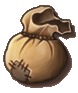
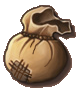
- Updated readme - Uploaded resources - Finalized beta version

diff --git a/src/providers/utility/utility.ts b/src/providers/utility/utility.ts
@@ -22,8 +22,8 @@ export class UtilityProvider {
   };
 
   public images: any = {
-    character: "/assets/images/character.png",
-    bag: "/assets/images/bag.png",
+    character: "assets/images/character_grayscale.png",
+    bag: "assets/images/bag_grayscale.png",
   };
   public options: Options = new Options();
   public characters: Character[] = new Array<Character>();
@@ -41,17 +41,17 @@ export class UtilityProvider {
 
   public init() {
     return new Promise((resolve, reject) => {
-      this.clearChache().then(() => {
-        let promises = [];
-        promises.push(this._loadOptions());
-        promises.push(this._loadItems());
-        promises.push(this._loadCharacters());
-        Promise.all(promises).then(() => {
-          this._translateService.use(this.options.language);
-          console.log("App inizializzata");
-          resolve();
-        });
+      // this.clearChache().then(() => {
+      let promises = [];
+      promises.push(this._loadOptions());
+      promises.push(this._loadItems());
+      promises.push(this._loadCharacters());
+      Promise.all(promises).then(() => {
+        this._translateService.use(this.options.language);
+        console.log("App inizializzata");
+        resolve();
       });
+      // });
     });
   }
   public clearChache() {
@@ -95,7 +95,7 @@ export class UtilityProvider {
 
   private _loadItems() {
     return new Promise((resolve, reject) => {
-      this._http.get("/assets/items.json").subscribe(value => {
+      this._http.get("assets/items.json").subscribe(value => {
         value.json().items.forEach(item => {
           this.items.push(JsonObject.parse(Item, item));
         });
@@ -127,9 +127,9 @@ export class UtilityProvider {
           });
         } else {
           console.log("Inizializzo i personaggi...");
-          this._addMockCharacters();
-          this._addMockBags();
-          this._addMockBagItems();
+          // this._addMockCharacters();
+          // this._addMockBags();
+          // this._addMockBagItems();
           this._saveCharacters();
           this.characters.forEach(char => {
             console.log(JSON.stringify(char));
@@ -162,41 +162,41 @@ export class UtilityProvider {
   }
 
   //DEBUG
-  private _addMockBagItems() {
-    let bagItem = new BagItem();
-    bagItem.itemId = 1;
-    this.characters[0].bags[0].items.push(bagItem);
-    bagItem = new BagItem();
-    bagItem.itemId = 2;
-    this.characters[0].bags[1].items.push(bagItem);
-    bagItem = new BagItem();
-    bagItem.itemId = 3;
-    bagItem.quantity = 3;
-    this.characters[0].bags[1].items.push(bagItem);
-    bagItem = new BagItem();
-    bagItem.itemId = 4;
-    bagItem.quantity = 2;
-    this.characters[0].bags[2].items.push(bagItem);
-  }
-  private _addMockBags() {
-    let bag = this.characters[0].addBag("Borsa da cintura");
-    bag.weight = 0.5;
-    bag = this.characters[0].addBag("Borsa magica");
-    bag.weight = 1;
-    bag.isFixedWeight = true;
-    bag.capacity = 10;
-  }
-  private _addMockCharacters() {
-    let char = this.addCharacter("Personaggio Nick");
-    char.race = "Nano"
-    char.class = "Guerriero";
-    char.strength = 18;
-    char = this.addCharacter("Personaggio Lucia");
-    char.race = "Umano"
-    char.class = "Stregone";
-    char.strength = 12;
-    char = this.addCharacter("Personaggio Margherita");
-    char.race = "Gnomo"
-    char.class = "Mago";
-  }
+  // private _addMockBagItems() {
+  //   let bagItem = new BagItem();
+  //   bagItem.itemId = 1;
+  //   this.characters[0].bags[0].items.push(bagItem);
+  //   bagItem = new BagItem();
+  //   bagItem.itemId = 2;
+  //   this.characters[0].bags[1].items.push(bagItem);
+  //   bagItem = new BagItem();
+  //   bagItem.itemId = 3;
+  //   bagItem.quantity = 3;
+  //   this.characters[0].bags[1].items.push(bagItem);
+  //   bagItem = new BagItem();
+  //   bagItem.itemId = 4;
+  //   bagItem.quantity = 2;
+  //   this.characters[0].bags[2].items.push(bagItem);
+  // }
+  // private _addMockBags() {
+  //   let bag = this.characters[0].addBag("Borsa da cintura");
+  //   bag.weight = 0.5;
+  //   bag = this.characters[0].addBag("Borsa magica");
+  //   bag.weight = 1;
+  //   bag.isFixedWeight = true;
+  //   bag.capacity = 10;
+  // }
+  // private _addMockCharacters() {
+  //   let char = this.addCharacter("Personaggio Nick");
+  //   char.race = "Nano"
+  //   char.class = "Guerriero";
+  //   char.strength = 18;
+  //   char = this.addCharacter("Personaggio Lucia");
+  //   char.race = "Umano"
+  //   char.class = "Stregone";
+  //   char.strength = 12;
+  //   char = this.addCharacter("Personaggio Margherita");
+  //   char.race = "Gnomo"
+  //   char.class = "Mago";
+  // }
 }

diff --git a/src/model/character.ts b/src/model/character.ts
@@ -1,6 +1,5 @@
 import { JsonObject, JsonArray } from "./json-model";
 import { Bag } from "./bag";
-import { BagItem } from "./bag-item";
 import { Item } from "./item";
 
 export class Character extends JsonObject {
@@ -15,14 +14,16 @@ export class Character extends JsonObject {
 
     constructor(name?: string) {
         super();
-        if (name)
+        if (name) {
             this.name = name;
-        this.race = "Razza";
-        this.class = "Classe";
-        this.strength = 10;
-        this.addBag("Equipaggiato");
-        let bag = this.addBag("Zaino");
-        bag.weight = 2.5;
+            this.race = "Razza";
+            this.class = "Classe";
+            this.strength = 10;
+            let bag = this.addBag("Equipaggiato");
+            bag.isEquipped = true;
+            bag = this.addBag("Zaino");
+            bag.weight = 2.5;
+        }
     }
 
     public get description() {
@@ -46,7 +47,7 @@ export class Character extends JsonObject {
     public get isHeavilyEncumbered() {
         return this.carriedWeight > this.heavilyEncumberedValue;
     }
-    public get isOverMaxCarry(){
+    public get isOverMaxCarry() {
         return this.carriedWeight > this.maxCarryValue;
     }
     public get encumberedValue() {
@@ -59,9 +60,6 @@ export class Character extends JsonObject {
         return parseFloat((this.strength * 15 * 0.453592).toFixed(2));
     }
 
-    public equipItem(bagItem: BagItem) {
-        this.equippedBag.items.push(bagItem);
-    }
     public getItemQuantity(item: Item) {
         let result = 0;
         this.bags.forEach(bag => {
@@ -76,7 +74,7 @@ export class Character extends JsonObject {
         return bag;
     }
     public removeBag(bag: Bag) {
-        this.bags.splice(this.bags.indexOf(bag));
+        this.bags.splice(this.bags.indexOf(bag), 1);
     }
 
     private _generateBagId() {

diff --git a/src/components/bag-item/bag-item.ts b/src/components/bag-item/bag-item.ts
@@ -43,9 +43,10 @@ export class BagItemComponent {
   public remove() {
     if (this.bagItem.quantity == 1) {
       this._utility.translate(["ButtareOggetto", "ButtareOggetto?", "Si", "No"]).subscribe(values => {
+        let message = values["ButtareOggetto?"].replace("{0}", this.bagItem.item.name);
         this._alertCtrl.create({
           title: values["ButtareOggetto"],
-          message: values["ButtareOggetto?"],
+          message: message,
           buttons: [
             {
               text: values["No"]
@@ -64,9 +65,11 @@ export class BagItemComponent {
       this.bagItem.quantity--;
   }
   public equip() {
-    this.bag.removeItem(this.bagItem);
-    this._utility.session.character.equipItem(this.bagItem);
-    this._utility.saveToStorage();
+    this._selectQuantity().then(quantity => {
+      this.bag.removeItem(this.bagItem, quantity);
+      this._utility.session.character.equippedBag.addItem(this.bagItem.item, quantity);
+      this._utility.saveToStorage();
+    });
   }
   public unequip() {
     this._selectQuantity().then(quantity => {
@@ -125,10 +128,10 @@ export class BagItemComponent {
       if (this._utility.session.character.bags.length == 2)
         resolve(this._utility.session.character.backpack);
       else {
-        this._utility.translate(["ScegliZaino", "QualeZaino?", "Conferma", "Annulla"]).subscribe(values => {
+        this._utility.translate(["SelezioneZaino", "InQualeZaino?", "Conferma", "Annulla"]).subscribe(values => {
           let alert = this._alertCtrl.create({
-            title: values["ScegliZaino"],
-            message: values["QualeZaino?"],
+            title: values["SelezioneZaino"],
+            message: values["InQualeZaino?"],
             buttons: [
               {
                 text: values["Annulla"],

diff --git a/src/pages/bag-details/bag-details.ts b/src/pages/bag-details/bag-details.ts
@@ -1,7 +1,6 @@
 import { Component } from '@angular/core';
 import { IonicPage, NavController, NavParams, AlertController } from 'ionic-angular';
 import { Bag } from "../../model/bag";
-import { JsonObject } from "../../model/json-model";
 import { UtilityProvider } from "../../providers/utility/utility";
 
 @IonicPage()
@@ -31,6 +30,10 @@ export class BagDetailsPage {
     }
   }
 
+  public get showDelete(){
+    return this._utility.session.character.bags.length > 2;
+  }
+
   public cancel() {
     this.navCtrl.pop();
   }
@@ -41,9 +44,10 @@ export class BagDetailsPage {
   }
   public delete() {
     this._utility.translate(["ButtareBorsa", "ButtareBorsa?", "Si", "No"]).subscribe(values => {
+      let message = values["ButtareBorsa?"].replace("{0}", this.bag.name);
       this._alertCtrl.create({
         title: values["ButtareBorsa"],
-        message: values["ButtareBorsa?"],
+        message: message,
         buttons: [
           {
             text: values["No"]

diff --git a/src/components/total-bar/total-bar.ts b/src/components/total-bar/total-bar.ts
@@ -23,6 +23,8 @@ export class TotalBarComponent {
       result = "warning";
     if (this._utility.session.character.isHeavilyEncumbered)
       result = "danger";
+    if (this._utility.session.character.isOverMaxCarry)
+      result = "alert";
     return result;
   }
   public get carriedWeightIconName() {
@@ -36,6 +38,9 @@ export class TotalBarComponent {
   }
   public get isHeavilyEncumbered() {
     return this._utility.session.character.isHeavilyEncumbered;
+  }
+  public get isOverMaxCarry() {
+    return this._utility.session.character.isOverMaxCarry;
   }
 
   public showInfo() {

diff --git a/src/components/total-bar/total-bar.html b/src/components/total-bar/total-bar.html
@@ -2,6 +2,6 @@
   <ion-item no-lines tappable (click)="showInfo()">
     {{"PesoTrasportato" | translate}}
     <ion-icon name="{{carriedWeightIconName}}" color="{{carriedWeightColor}}" item-right></ion-icon>
-    <p class="carried-weight" [ngClass]="{isEncumbered: isEncumbered, isHeavilyEncumbered: isHeavilyEncumbered}" item-right>{{carriedWeight}} Kg</p>
+    <p class="carried-weight" [ngClass]="{isEncumbered: isEncumbered, isHeavilyEncumbered: isHeavilyEncumbered, isOverMaxCarry: isOverMaxCarry}" item-right>{{carriedWeight}} Kg</p>
   </ion-item>
 </ion-toolbar>

diff --git a/src/pages/character-details/character-details.ts b/src/pages/character-details/character-details.ts
@@ -87,9 +87,10 @@ export class CharacterDetailsPage implements OnInit {
   }
   public delete() {
     this._utility.translate(["CancellazionePersonaggio", "CancellarePersonaggio?", "Si", "No"]).subscribe(values => {
+      let message = values["CancellarePersonaggio?"].replace("{0}", this.character.name);
       this._alertCtrl.create({
         title: values["CancellazionePersonaggio"],
-        message: values["CancellarePersonaggio?"],
+        message: message,
         buttons: [
           {
             text: values["No"]

diff --git a/src/pages/bag-details/bag-details.html b/src/pages/bag-details/bag-details.html
@@ -28,7 +28,7 @@
 </ion-content>
 
 <ion-footer>
-  <ion-item class="delete-label" text-center tappable (click)="delete()">{{"Elimina" | translate}}</ion-item>
+  <ion-item class="delete-label" text-center tappable *ngIf="showDelete" (click)="delete()">{{"Elimina" | translate}}</ion-item>
   <ion-grid>
     <ion-row>
       <button ion-col ion-button outline color="cancel" (click)="cancel()">{{"Annulla" | translate}}</button>

diff --git a/src/components/total-bar/total-bar.scss b/src/components/total-bar/total-bar.scss
@@ -1,5 +1,5 @@
 total-bar {
-    ion-item{
+    ion-item {
         background: none !important;
     }
     .carried-weight {
@@ -10,6 +10,9 @@ total-bar {
         }
         &.isHeavilyEncumbered {
             color: color($colors, danger);
+        }
+        &.isOverMaxCarry {
+            color: color($colors, alert);
         }
     }
 }

diff --git a/src/components/bag/bag.scss b/src/components/bag/bag.scss
@@ -7,7 +7,6 @@ bag {
     }
     .image {
         max-height: 30px;
-        filter: grayscale(100%);
     }
     .bag-total,
     .bag-details {

diff --git a/src/theme/variables.scss b/src/theme/variables.scss
@@ -31,6 +31,7 @@ $colors: (
   dark:       #222,
   warning:    orange,
   cancel:     gray,
+  alert:      purple,
 );
 
 

diff --git a/src/components/character/character.scss b/src/components/character/character.scss
@@ -1,5 +1,2 @@
 character {
-    // img.image {
-    //     filter: grayscale(100%);
-    // }
 }
